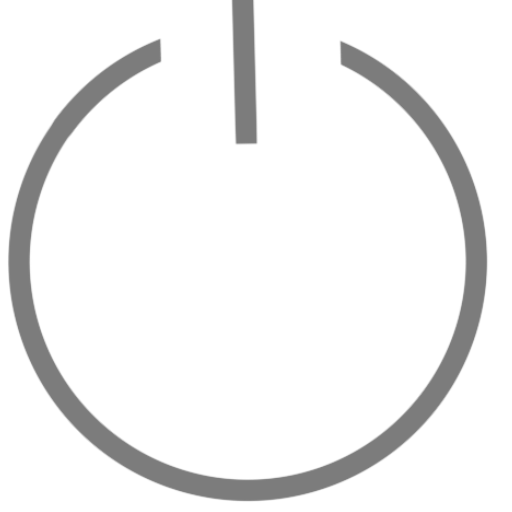
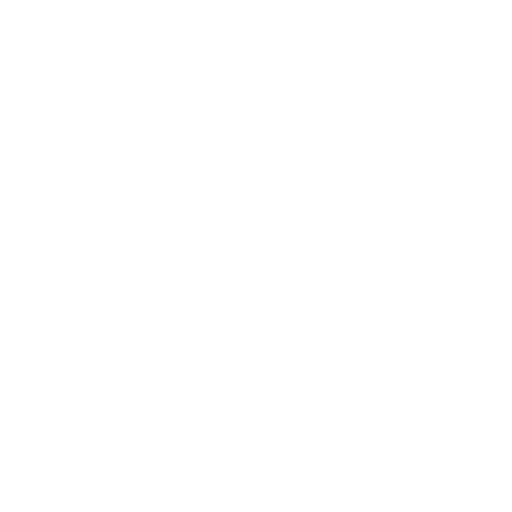
updated filter button images (white colored) and created dynamic tool bar. added mirror vertical filter

Changed region(s): [[0.0, 0.0625, 0.9688, 1.0], [0.4375, 0.0, 0.5, 0.2812]]

diff --git a/frontend/src/main/resources/style/style.css b/frontend/src/main/resources/style/style.css
@@ -53,15 +53,15 @@
 }
 
 .button:hover {
-    -fx-background-color: #b3b3b3;
+    -fx-background-color: #616161;
     -fx-border-radius: 20;
     -fx-cursor: hand;
 }
 
-.button:disabled {
-    -fx-opacity: 0;
+.button:disabled .image-view {
+    -fx-effect: dropshadow(gaussian, rgba(0, 0, 0, 0.3), 10, 0, 0, 0);
+    -fx-opacity: 0.3;
 }
-
 /* Labels */
 .label {
     -fx-text-fill: #676767 inherit;

diff --git a/frontend/src/main/java/org/supsi/view/filter/FilterLine.java b/frontend/src/main/java/org/supsi/view/filter/FilterLine.java
@@ -1,0 +1,114 @@
+package org.supsi.view.filter;
+
+import javafx.fxml.FXML;
+import javafx.geometry.Insets;
+import javafx.scene.control.Button;
+import javafx.scene.control.Tooltip;
+import javafx.scene.image.Image;
+import javafx.scene.image.ImageView;
+import javafx.scene.layout.HBox;
+import org.supsi.model.filters.FilterModel;
+import org.supsi.model.filters.IFilterModel;
+import org.supsi.model.state.IStateModel;
+import org.supsi.model.state.StateModel;
+import org.supsi.model.translations.ITranslationsModel;
+import org.supsi.model.translations.TranslationModel;
+
+import java.util.ArrayList;
+import java.util.List;
+import java.util.Optional;
+
+public class FilterLine implements IFilterEvent {
+
+    @FXML
+    public Button activate;
+
+    @FXML
+    public HBox hbox;
+
+    private static final String FILTER_IMAGE_PATH = "/images/buttons/top/%s.png";
+
+    private final IStateModel stateModel = StateModel.getInstance();
+    private final IFilterModel filterModel = FilterModel.getInstance();
+    private final List<FilterUpdateListener> listeners = new ArrayList<>();
+
+    @FXML
+    public void initialize() {
+        ITranslationsModel translationsModel = TranslationModel.getInstance();
+
+        hbox.setSpacing(5);
+        hbox.setPadding(new Insets(5));
+        hbox.getStyleClass().add("filter-hbox");
+
+        filterModel.getFiltersKeyValues().forEach((filterKey, translatedFilter) ->
+                createFilterButton(filterKey, translatedFilter, translationsModel)
+                        .ifPresentOrElse(button -> hbox.getChildren().add(button),
+                                () -> System.out.println("[\u001B[33mWARNING\u001B[0m] Found a filter without an associated image - available in menu bar only"))
+        );
+
+        activate.disableProperty().bind(stateModel.canApplyFiltersProperty().not());
+        setupActivateButton();
+    }
+
+    private Optional<Button> createFilterButton(String filterKey, String translatedFilter, ITranslationsModel translationsModel) {
+        return loadImage(filterKey)
+                .map(imageView -> {
+                    Button button = new Button();
+
+                    imageView.setPreserveRatio(true);
+                    imageView.setFitHeight(25);
+                    imageView.setFitWidth(25);
+                    button.setGraphic(imageView);
+
+                    button.setTooltip(new Tooltip(translationsModel.translate("ui_apply") + " " + translatedFilter));
+                    button.disableProperty().bind(stateModel.canApplyFiltersProperty().not());
+
+                    button.setPrefSize(25, 25);
+                    button.setMinSize(25, 25);
+                    button.setMaxSize(25, 25);
+
+                    button.getStyleClass().add("filter-button");
+                    HBox.setMargin(button, new Insets(0, 10, 0, 10));
+
+                    button.setOnAction(event -> {
+                        listeners.forEach(listener -> listener.onFilterAdded(filterKey));
+                    });
+
+                    return button;
+                });
+    }
+
+    private Optional<ImageView> loadImage(String filterName) {
+        try {
+            Image image = new Image(String.format(FILTER_IMAGE_PATH, filterName));
+            if (image.isError() || image.getWidth() == 0) {
+                return Optional.empty();
+            }
+            return Optional.of(new ImageView(image));
+        } catch (Exception e) {
+            return Optional.empty();
+        }
+    }
+
+    private void setupActivateButton() {
+        if (activate != null) {
+            activate.setPrefSize(30, 30);
+            activate.setMinSize(30, 30);
+            activate.setMaxSize(30, 30);
+
+            activate.setOnAction(event -> {
+                listeners.forEach(FilterUpdateListener::onFiltersActivated);
+            });
+        }
+    }
+
+    @Override
+    public void registerListener(FilterUpdateListener listener) {
+        listeners.add(listener);
+    }
+
+    @Override
+    public void deregisterListener(FilterUpdateListener listener) {
+        listeners.remove(listener);
+    }
+}

diff --git a/backend/src/main/java/ch/supsi/business/filter/chain/VerticalMirrorCommand.java b/backend/src/main/java/ch/supsi/business/filter/chain/VerticalMirrorCommand.java
@@ -1,0 +1,36 @@
+package ch.supsi.business.filter.chain;
+
+import ch.supsi.application.image.ImageBusinessInterface;
+
+public class VerticalMirrorCommand extends FilterChainLink {
+    @Override
+    public void executeFilter(ImageBusinessInterface img) {
+        long[][] pixels = img.getPixels();
+
+        // Controllo validità dell'array di pixel
+        if (pixels == null || pixels.length == 0 || pixels[0].length == 0) {
+            return;
+        }
+
+        int width = pixels[0].length;
+        int height = pixels.length;
+
+        // Scambia i pixel verticalmente
+        // Itera solo fino a metà altezza per evitare di scambiare due volte
+        for (int i = 0; i < height / 2; i++) {
+            for (int j = 0; j < width; j++) {
+                // Scambia il pixel nella riga superiore con quello nella riga inferiore corrispondente
+                long temp = pixels[i][j];
+                pixels[i][j] = pixels[height - i - 1][j];
+                pixels[height - i - 1][j] = temp;
+            }
+        }
+
+        img.setPixels(pixels);
+    }
+
+    @Override
+    public String getName() {
+        return "Mirror_Vertical";
+    }
+}

diff --git a/backend/src/main/java/ch/supsi/business/filter/chain/HorizontalMirrorCommand.java b/backend/src/main/java/ch/supsi/business/filter/chain/HorizontalMirrorCommand.java
@@ -2,7 +2,7 @@ package ch.supsi.business.filter.chain;
 
 import ch.supsi.application.image.ImageBusinessInterface;
 
-public class MirrorCommand extends FilterChainLink {
+public class HorizontalMirrorCommand extends FilterChainLink {
     @Override
     public void executeFilter(ImageBusinessInterface img) {
         long[][] pixels = img.getPixels();
@@ -27,6 +27,6 @@ public class MirrorCommand extends FilterChainLink {
 
     @Override
     public String getName() {
-        return "Mirror";
+        return "Mirror_Horizontal";
     }
 }

diff --git a/frontend/src/main/java/org/supsi/MainFx.java b/frontend/src/main/java/org/supsi/MainFx.java
@@ -110,6 +110,9 @@ public class MainFx extends Application {
             }
             loader = new FXMLLoader(fxmlUrl,translationsModel.getUiBundle());
             VBox filterLine = loader.load();
+            IFilterEvent filterLineCtrl = loader.getController();
+
+            filterController.addEventPublisher(filterLineCtrl);
             centerPane.setTop(filterLine);
 
             VBox filterColumn = new VBox();
